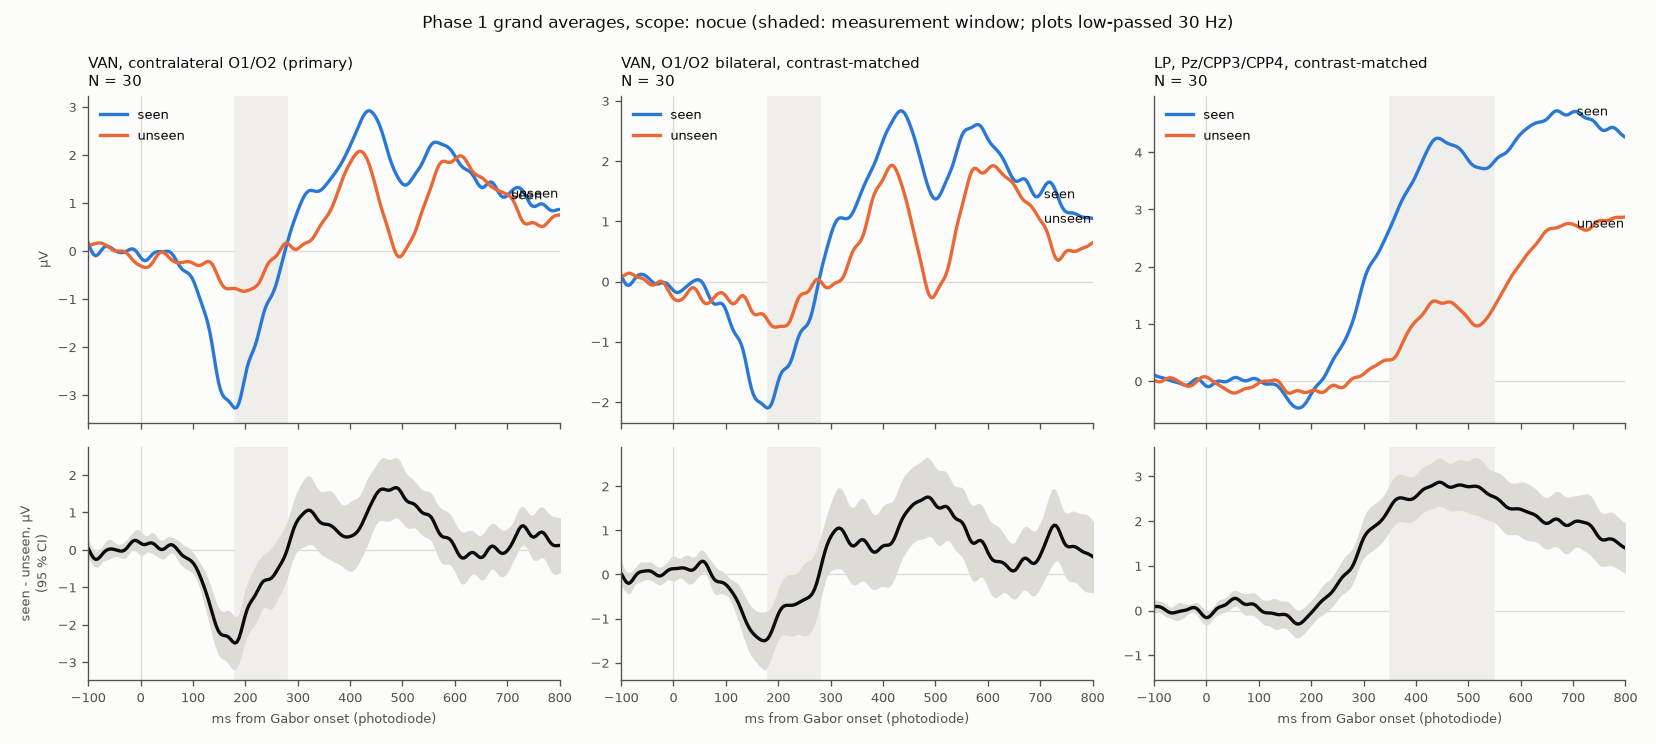
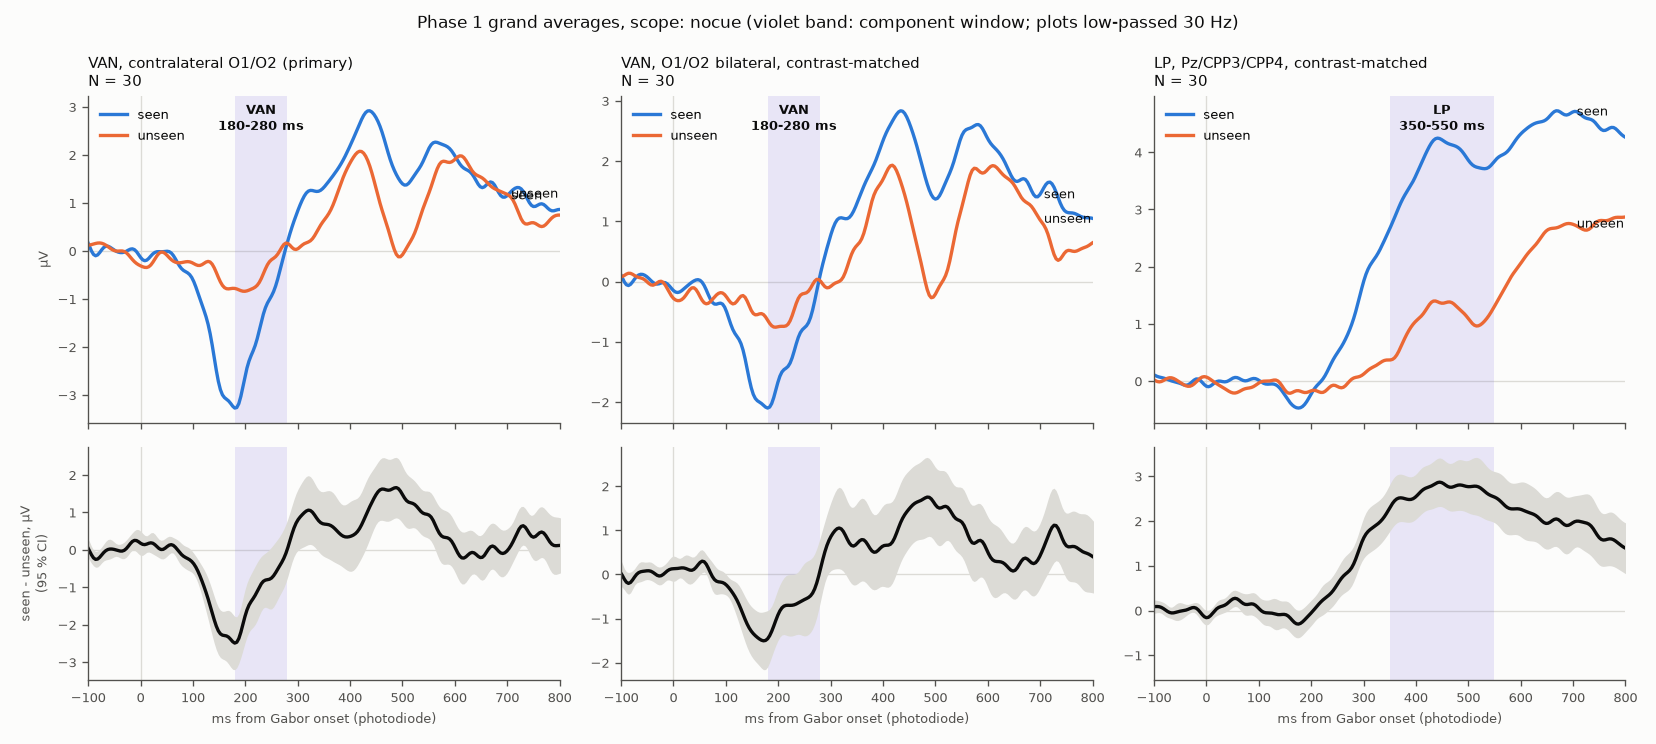
Figures: violet labelled band for the VAN/LP windows in the ERP waves

diff --git a/src/start_vision/analysis/figures.py b/src/start_vision/analysis/figures.py
@@ -23,6 +23,7 @@ from scipy import stats
 SEEN, UNSEEN = "#2a78d6", "#eb6834"
 INK, MUTED, GRID = "#0b0b0b", "#52514e", "#dcdbd6"
 SURFACE = "#fcfcfb"
+WINDOW = "#6250d6"  # palette slot 7 (violet), used only as a pale tint for the component window
 LOWPASS_HZ = 30.0  # PHASE1_REFERENCES §2: plots low-passed at 30 Hz
 
 PANELS = {  # name -> (seen wave, unseen wave, channels, window, title)
@@ -93,9 +94,15 @@ def waves(per_subject: dict[str, dict[str, mne.Evoked]], scope: str, out: Path) 
         n = len(subs)
         half = stats.t.ppf(0.975, n - 1) * d.std(0, ddof=1) / np.sqrt(n)
         top, bot = axes[0, j], axes[1, j]
+        comp = title.split(",")[0]  # "VAN" or "LP"
         for ax in (top, bot):
             _style(ax)
-            ax.axvspan(*win, color="#efeeea", zorder=0)
+            ax.axvspan(*win, color=WINDOW, alpha=0.13, lw=0, zorder=0)
+        top.text(
+            (win[0] + win[1]) / 2, 0.98, f"{comp}\n{win[0]}-{win[1]} ms",
+            transform=top.get_xaxis_transform(), ha="center", va="top",
+            fontsize=8, color=INK, fontweight="bold",
+        )
         top.plot(t, s.mean(0), color=SEEN, lw=2, label="seen")
         top.plot(t, u.mean(0), color=UNSEEN, lw=2, label="unseen")
         k = int(np.argmin(np.abs(t - 700)))
@@ -111,7 +118,7 @@ def waves(per_subject: dict[str, dict[str, mne.Evoked]], scope: str, out: Path) 
             top.set_ylabel("µV", fontsize=8, color=MUTED)
             bot.set_ylabel("seen - unseen, µV\n(95 % CI)", fontsize=8, color=MUTED)
     fig.suptitle(
-        f"Phase 1 grand averages, scope: {scope} (shaded: measurement window; "
+        f"Phase 1 grand averages, scope: {scope} (violet band: component window; "
         f"plots low-passed {LOWPASS_HZ:g} Hz)",
         fontsize=10,
         color=INK,
